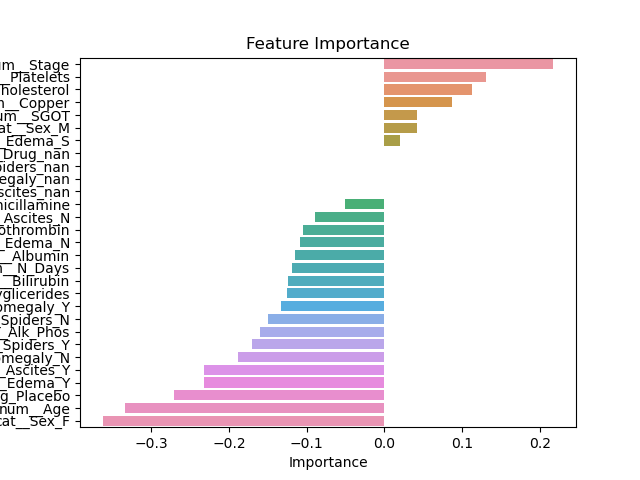
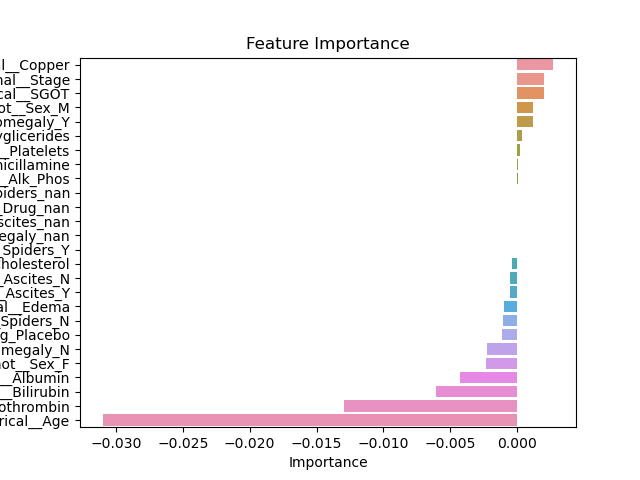
update labels in feature importance analysis

diff --git a/data_analysis/src/feature_importance.py b/data_analysis/src/feature_importance.py
@@ -26,15 +26,15 @@ file_path = os.path.join(current_dir, data_dir, feat_file)
 data = pd.read_csv(file_path)
 
 # Remove the data of the patients not included in the clinical trial
-data = data[data['cat__Ascites_nan'] != 1.0]
+data = data[data['onehot__Ascites_nan'] != 1.0]
 
 # Handle any other NaN values by imputing them
 imputer = SimpleImputer(strategy='mean')  # You can choose other strategies if needed
 data_imputed = pd.DataFrame(imputer.fit_transform(data), columns=data.columns)
 
 # Split the data into features and target
-X = data_imputed.drop(columns=['target'])
-y = data_imputed['target']
+X = data_imputed.drop(columns=['ordinal__Status'])
+y = data_imputed['ordinal__Status']
 
 # Split the data into training and testing sets
 X_train, X_test, y_train, y_test = train_test_split(X, y, test_size=0.2, random_state=42)
